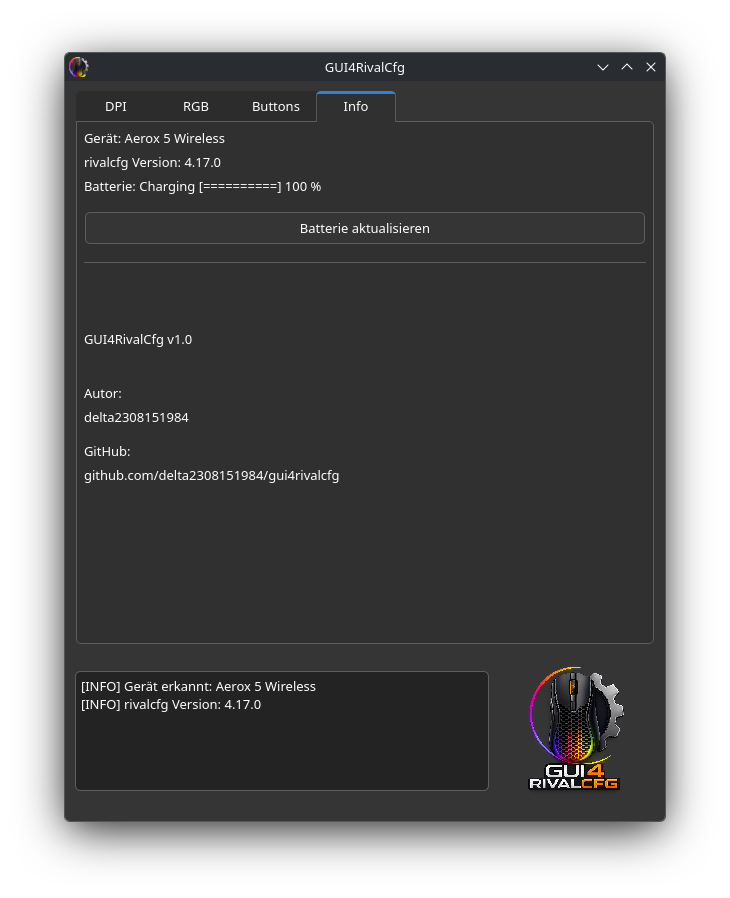
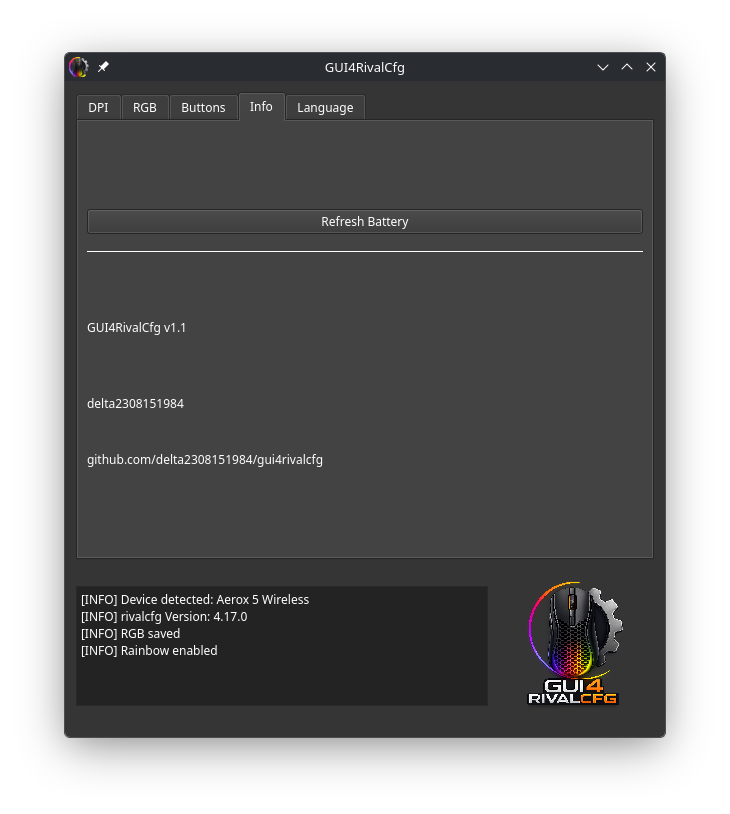
Update English documentation and screenshots

Changed region(s): [[0.0603, 0.0307, 0.9342, 0.9521], [0.4219, 0.2457, 0.5726, 0.2764]]

diff --git a/README.md b/README.md
@@ -4,63 +4,68 @@
   <img src="images/logo.png" width="256" alt="GUI4RivalCfg Logo">
 </p>
 
-Grafische Oberfläche für rivalcfg unter Linux.
+A graphical Linux interface for configuring SteelSeries mice with
+[rivalcfg](https://github.com/flozz/rivalcfg).
 
-## Unterstützte Funktionen
+## Features
 
-- DPI-Konfiguration
-- RGB-Konfiguration
-- Reactive-Effekt
-- Rainbow-Effekt
-- RGB deaktivieren
+- DPI configuration
+- RGB configuration
+- Reactive lighting effect
+- Rainbow lighting effect
+- Disable RGB lighting
 - Dim Timer
 - Sleep Timer
-- Button-Mapping
-- Batterieanzeige
-- Deutsche und englische Benutzeroberfläche
+- Button mapping
+- Battery level display
+- English and German user interface
 
 ## Screenshots
 
 | DPI | RGB |
 |-----|-----|
-| ![](images/screenshots/dpi.png) | ![](images/screenshots/rgb.png) |
+| ![DPI configuration](images/screenshots/dpi.png) | ![RGB configuration](images/screenshots/rgb.png) |
 
 | Buttons | Info |
 |----------|------|
-| ![](images/screenshots/buttons.png) | ![](images/screenshots/info.png) |
+| ![Button mapping](images/screenshots/buttons.png) | ![Application information](images/screenshots/info.png) |
 
-## Voraussetzungen
+| Language |
+|----------|
+| ![Language selection](images/screenshots/lang.png) |
 
+## Requirements
+
+- A supported SteelSeries mouse
 - Linux
 - Python 3
-- Python-venv-Unterstützung
+- Python venv support
 
 ## Installation
 
-1. `gui4rivalcfg-1.1.tar.gz` aus dem
-   [v1.1-Release](https://github.com/delta2308151984/gui4rivalcfg/releases/tag/v1.1)
-   herunterladen und entpacken.
-2. Im entpackten Ordner ausführen:
+1. Download and extract `gui4rivalcfg-1.1.tar.gz` from the
+   [v1.1 release](https://github.com/delta2308151984/gui4rivalcfg/releases/tag/v1.1).
+2. Run the installer from the extracted directory:
 
 ```bash
 ./install.sh
 ```
 
-Der Installer richtet Anwendung, Python-Umgebung, Starter und Menüeintrag
-benutzerweit ein. Es sind keine Root-Rechte erforderlich. Anschließend kann
-die Anwendung über das Anwendungsmenü oder im Terminal gestartet werden:
+The installer creates a user-local application directory, Python environment,
+command-line launcher, and desktop menu entry. Root privileges are not
+required. Start the application from the desktop menu or terminal:
 
 ```bash
 gui4rivalcfg
 ```
 
-## Deinstallation
+## Uninstallation
 
 ```bash
 ./uninstall.sh
 ```
 
-## Start aus dem Quellcode
+## Running from source
 
 ```bash
 python3 -m venv .venv
